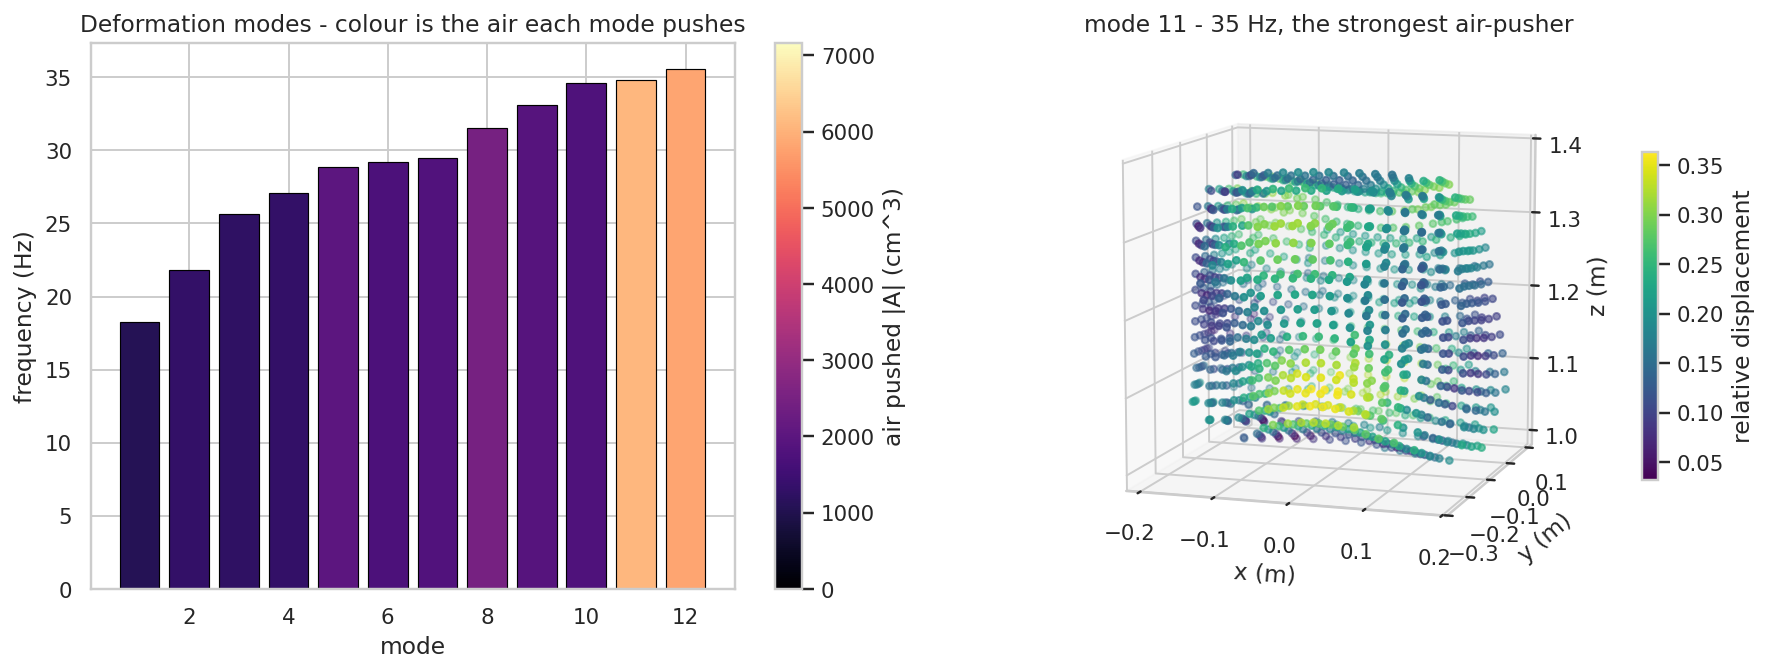
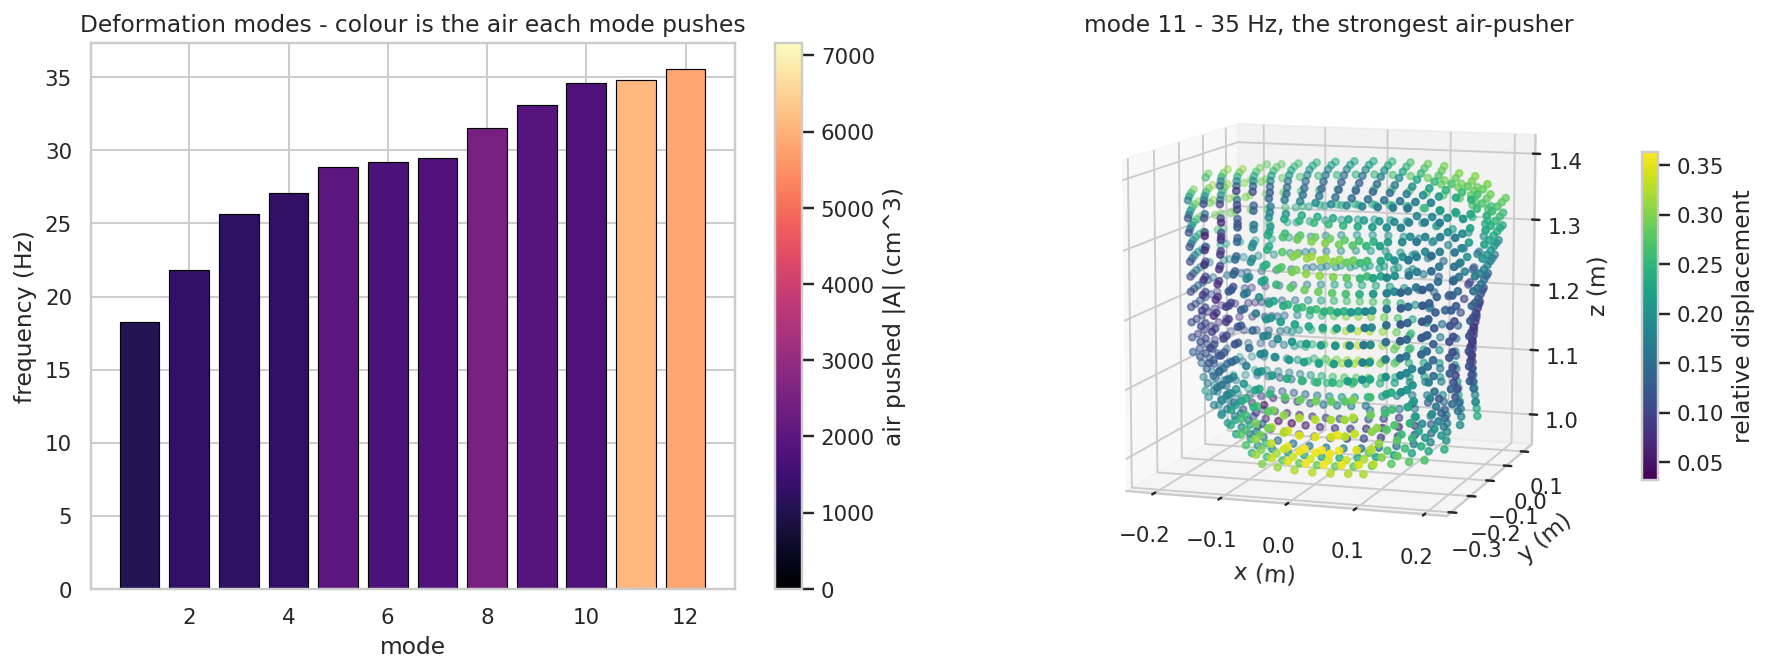
refactor: extract tet-mesh and WAV helpers from notebooks 03 and 04
- add boundary_facets, tet_mesh_volume, write_listening_wav to corridor/bodyfem.py
- refactor _impact_patch onto boundary_facets, ending a three-way duplication
- rewire notebooks 03 and 04 to call the helpers, drop the unused
  scipy.io.wavfile import
- relocate simulation_config.yml from corridor/ to the package root,
  updating simconfig.LIBRARY_CONFIG_PATH and pyproject.toml package-data
- add six guards to test_bodyfem.py

Verified value-preserving: boundary_facets and write_listening_wav are
bit-identical to the old inline code, tet_mesh_volume agrees with the old
determinant to machine epsilon. 297 tests pass, both notebooks re-execute
clean.

Changed region(s): [[0.6222, 0.1875, 0.9021, 0.8438], [0.6222, 0.7812, 0.7155, 0.8125]]

diff --git a/tests/test_bodyfem.py b/tests/test_bodyfem.py
@@ -9,6 +9,7 @@ from henryk_simulations.corridor.bodyfem import (
     BodyFEMConfig,
     _surface_roughness,
     air_escape,
+    boundary_facets,
     deceleration_pulse,
     decimate_mesh,
     ensure_body_mesh,
@@ -18,7 +19,9 @@ from henryk_simulations.corridor.bodyfem import (
     solve_body_fem,
     solve_modes,
     sound_levels,
+    tet_mesh_volume,
     voxelise_torso,
+    write_listening_wav,
 )
 
 
@@ -265,3 +268,65 @@ def test_sound_levels_finite_and_a_weighting_cuts_the_thump(result, cfg) -> None
 
 def test_peak_spl_zero_for_silence() -> None:
     assert peak_spl(np.zeros(100)) == 0.0
+
+
+# ---------------------------------------------------------------------------
+# Tet-mesh helpers - boundary facets and mesh volume
+# ---------------------------------------------------------------------------
+
+
+def test_boundary_facets_of_a_lone_tet() -> None:
+    # a single tetrahedron has all four of its faces on the boundary
+    facets = boundary_facets(np.array([[0, 1, 2, 3]]))
+    assert facets.shape == (4, 3)
+
+
+def test_boundary_facets_drop_a_shared_face() -> None:
+    # two tets sharing the (0, 1, 2) face - that face is interior, six remain
+    facets = boundary_facets(np.array([[0, 1, 2, 3], [0, 1, 2, 4]]))
+    assert facets.shape == (6, 3)
+    assert not any(tuple(f) == (0, 1, 2) for f in facets)
+
+
+def test_boundary_facets_of_the_torso_are_valid(voxel) -> None:
+    nodes, tets = voxel
+    facets = boundary_facets(tets)
+    assert facets.shape[1] == 3
+    assert len(facets) > 0
+    assert int(facets.min()) >= 0
+    assert int(facets.max()) < len(nodes)
+    assert np.all(np.diff(facets, axis=1) > 0)  # every row sorted ascending
+
+
+def test_tet_mesh_volume_of_a_unit_tet() -> None:
+    nodes = np.array([[0.0, 0.0, 0.0], [1.0, 0.0, 0.0], [0.0, 1.0, 0.0], [0.0, 0.0, 1.0]])
+    assert tet_mesh_volume(nodes, np.array([[0, 1, 2, 3]])) == pytest.approx(1.0 / 6.0)
+
+
+def test_tet_mesh_volume_of_the_torso_is_physical(voxel) -> None:
+    nodes, tets = voxel
+    vol = tet_mesh_volume(nodes, tets)
+    assert np.isfinite(vol)
+    assert 0.005 < vol < 0.080  # the voxelised upper torso, a few tens of litres
+
+
+# ---------------------------------------------------------------------------
+# Listening WAV export
+# ---------------------------------------------------------------------------
+
+
+def test_write_listening_wav_roundtrips(tmp_path) -> None:
+    from scipy.io import wavfile
+
+    sample_rate = 44100
+    signal = np.sin(2.0 * np.pi * 200.0 * np.arange(sample_rate) / sample_rate)
+    out = write_listening_wav(signal, tmp_path / "tone.wav", sample_rate, lead_in=0.5)
+    assert out.exists()
+    assert out.suffix == ".wav"
+    rate, data = wavfile.read(out)
+    assert rate == sample_rate
+    assert data.dtype == np.int16
+    # the silent lead-in is prepended to the signal
+    assert len(data) == len(signal) + int(0.5 * sample_rate)
+    # the tanh soft-clip holds the peak within the 0.97 headroom
+    assert np.abs(data).max() <= int(0.97 * 32767) + 1

diff --git a/src/henryk_simulations/corridor/bodyfem.py b/src/henryk_simulations/corridor/bodyfem.py
@@ -40,6 +40,7 @@ import urllib.request
 
 import meshio
 import numpy as np
+from scipy.io import wavfile
 from scipy.signal import butter, lsim, sosfiltfilt
 from scipy.sparse.linalg import eigsh
 from scipy.spatial import ConvexHull, Delaunay
@@ -329,6 +330,31 @@ def sound_levels(pressure: np.ndarray, sample_rate: int) -> dict[str, float]:
     }
 
 
+def write_listening_wav(
+    signal: np.ndarray,
+    path: str | Path,
+    sample_rate: int,
+    *,
+    lead_in: float = 0.5,
+    drive: float = 3.0,
+    peak: float = 0.97,
+) -> Path:
+    """Write a pressure signal to a 16-bit WAV for listening.
+
+    A silent ``lead_in`` is prepended, the signal is tanh soft-clipped at
+    ``drive`` and normalised to the ``peak`` headroom. The shaping is a
+    listening aid only - it lifts a faint physical signal to an audible
+    level and does not alter the simulated pressure. Returns the path.
+    """
+    lead = np.zeros(int(lead_in * sample_rate))
+    sound = np.concatenate([lead, signal])
+    shaped = np.tanh(drive * sound / np.abs(sound).max())
+    shaped = shaped / np.abs(shaped).max() * peak
+    out = Path(path)
+    wavfile.write(str(out), sample_rate, (shaped * 32767).astype(np.int16))
+    return out
+
+
 def voxelise_torso(torso: TorsoMesh, cfg: BodyFEMConfig) -> tuple[np.ndarray, np.ndarray]:
     """Voxelise the torso volume into a tetrahedral mesh.
 
@@ -385,6 +411,24 @@ def voxelise_torso(torso: TorsoMesh, cfg: BodyFEMConfig) -> tuple[np.ndarray, np
     return nodes_arr, tets_arr
 
 
+def boundary_facets(tets: np.ndarray) -> np.ndarray:
+    """Boundary triangles of a tetrahedral mesh.
+
+    Every tetrahedron contributes four triangular faces; an interior face
+    is shared by two tetrahedra and a boundary face by exactly one.
+    Returns the ``(M, 3)`` array of boundary-face node indices, each row
+    sorted ascending.
+    """
+    faces = np.sort(
+        np.concatenate(
+            [tets[:, [0, 1, 2]], tets[:, [0, 1, 3]], tets[:, [0, 2, 3]], tets[:, [1, 2, 3]]]
+        ),
+        axis=1,
+    )
+    uniq, counts = np.unique(faces, axis=0, return_counts=True)
+    return uniq[counts == 1]
+
+
 def _tet_volumes(nodes: np.ndarray, tets: np.ndarray) -> np.ndarray:
     """Volume of every tetrahedron."""
     v = nodes[tets]
@@ -396,6 +440,11 @@ def _tet_volumes(nodes: np.ndarray, tets: np.ndarray) -> np.ndarray:
         )
         / 6.0
     )
+
+
+def tet_mesh_volume(nodes: np.ndarray, tets: np.ndarray) -> float:
+    """Total volume of a tetrahedral mesh - the sum of its tet volumes."""
+    return float(_tet_volumes(nodes, tets).sum())
 
 
 def _modal_volume_velocity(nodes: np.ndarray, tets: np.ndarray, shape: np.ndarray) -> float:
@@ -455,14 +504,7 @@ def _impact_patch(nodes: np.ndarray, tets: np.ndarray) -> np.ndarray:
     low-y face. The patch is the boundary band there, the scapular region
     that met the wall.
     """
-    faces = np.sort(
-        np.concatenate(
-            [tets[:, [0, 1, 2]], tets[:, [0, 1, 3]], tets[:, [0, 2, 3]], tets[:, [1, 2, 3]]]
-        ),
-        axis=1,
-    )
-    uniq, counts = np.unique(faces, axis=0, return_counts=True)
-    boundary_nodes = np.unique(uniq[counts == 1])
+    boundary_nodes = np.unique(boundary_facets(tets))
     y = nodes[:, 1]
     z = nodes[:, 2]
     back = y[boundary_nodes] <= y.min() + 0.05
@@ -646,6 +688,7 @@ __all__ = [
     "TorsoMesh",
     "air_escape",
     "assemble_fem",
+    "boundary_facets",
     "deceleration_pulse",
     "decimate_mesh",
     "ensure_body_mesh",
@@ -657,5 +700,7 @@ __all__ = [
     "solve_body_fem",
     "solve_modes",
     "sound_levels",
+    "tet_mesh_volume",
     "voxelise_torso",
+    "write_listening_wav",
 ]

diff --git a/src/henryk_simulations/corridor/__init__.py b/src/henryk_simulations/corridor/__init__.py
@@ -47,6 +47,7 @@ from henryk_simulations.corridor.bodyfem import (
     TorsoMesh,
     air_escape,
     assemble_fem,
+    boundary_facets,
     deceleration_pulse,
     decimate_mesh,
     ensure_body_mesh,
@@ -58,7 +59,9 @@ from henryk_simulations.corridor.bodyfem import (
     solve_body_fem,
     solve_modes,
     sound_levels,
+    tet_mesh_volume,
     voxelise_torso,
+    write_listening_wav,
 )
 from henryk_simulations.corridor.choreography import (
     ChoreographyConfig,
@@ -187,6 +190,7 @@ __all__ = [
     "assess_fracture",
     "augment_event",
     "body_segments",
+    "boundary_facets",
     "cavity_axial_frequency",
     "compute_impact",
     "compute_phase_kinematics",
@@ -227,6 +231,8 @@ __all__ = [
     "solve_modes",
     "sound_levels",
     "spl_at_distance",
+    "tet_mesh_volume",
     "tolerance_factor",
     "voxelise_torso",
+    "write_listening_wav",
 ]

diff --git a/src/henryk_simulations/corridor/simconfig.py b/src/henryk_simulations/corridor/simconfig.py
@@ -33,8 +33,8 @@ import yaml
 from henryk_simulations.config import PROJ_ROOT
 from henryk_simulations.corridor.validation import validate
 
-# the library defaults ship next to this module
-LIBRARY_CONFIG_PATH = Path(__file__).with_name("simulation_config.yml")
+# the library defaults ship at the package root, one level above this module
+LIBRARY_CONFIG_PATH = Path(__file__).parent.parent / "simulation_config.yml"
 
 # the user file - simulation_config.yaml at the project root, unless
 # SIMULATION_CONFIG_PATH (loaded from .env) points elsewhere

diff --git a/.claude/JOURNAL.md b/.claude/JOURNAL.md
@@ -197,3 +197,9 @@ This journal tracks substantive work on documents, diagrams, and documentation c
 
 64. **Task - CI executes all five notebooks** (v0.8.7): extended the build workflow's notebook job to run every notebook, not just notebook 01<br>
     **Result**: `.github/workflows/build.yml` previously executed only `01-kj-corridor-kinematics.ipynb`. Changed the `notebook` job to loop over `notebooks/0[1-5]-*.ipynb`, executing each with `jupyter nbconvert --execute`, a 900 s per-cell timeout, and failing the job on any cell error; the checkout gained `lfs: true` for the LFS-tracked body-mesh data, and the executed notebooks upload as a build artifact. Verified locally - all five notebooks (kinematics, impact dynamics, body-thump FEM, door-clang FEM, event-audio augmentation) execute clean, exit 0, no errors or tracebacks. Notebook 05 was re-run against the current layered config in the process.
+
+65. **Task - Tet-mesh and WAV library helpers, config relocation** (v0.8.7): moved three inline computations out of notebooks 03 and 04 into `bodyfem.py`, and relocated the library config to the package root<br>
+    **Result**: Notebooks 03 and 04 each repeated the same boundary-facet extraction and tanh-shaped listening-WAV export inline; notebook 04 also derived the steel mass from an edge-vector determinant. Added three public helpers to `corridor/bodyfem.py` - `boundary_facets(tets)` for a tet mesh's boundary triangles (with `_impact_patch` refactored onto it, ending a three-way duplication), `tet_mesh_volume(nodes, tets)` wrapping the existing `_tet_volumes`, and `write_listening_wav(...)` for the lead-in plus tanh soft-clip export - all exported through `corridor/__init__.py`. Notebooks 03/04 now call the helpers and drop the now-unused `scipy.io.wavfile` import; six guards added to `test_bodyfem.py`. Separately relocated `simulation_config.yml` from `corridor/` to the package root, updating `simconfig.LIBRARY_CONFIG_PATH` and `pyproject.toml` package-data. Both notebooks re-execute clean, 297 tests pass, ruff clean.
+
+66. **Task - Verified the 03/04 refactor is value-preserving** (v0.8.7): proved the new bodyfem helpers reproduce the pre-refactor results and traced the one residual diff to the eigensolver<br>
+    **Result**: Follow-up check on entry 65. `boundary_facets` and `write_listening_wav` are bit-identical to the old inline notebook code - `np.array_equal` on the boundary triangles and on the int16 WAV samples; `tet_mesh_volume` differs from the old `np.linalg.det` code only at ~1e-16 relative (explicit scalar triple product vs LU determinant), so the displayed integer-kg door steel mass is unchanged. Diffing printed outputs against commit `3254ea6`: notebook 04 identical, notebook 03 identical bar one cell - mode 8's air-pushed amplitude moved 2016.0 -> 2015.9 cm^3 (0.005%). That cell is `solve_modes`, untouched by the refactor; calling it twice on an identical deterministic mesh gives non-identical `volume_velocity`, so the wobble is `scipy.sparse.linalg.eigsh` (ARPACK) random-start-vector nondeterminism, pre-existing on `main`. Every headline number is unchanged.